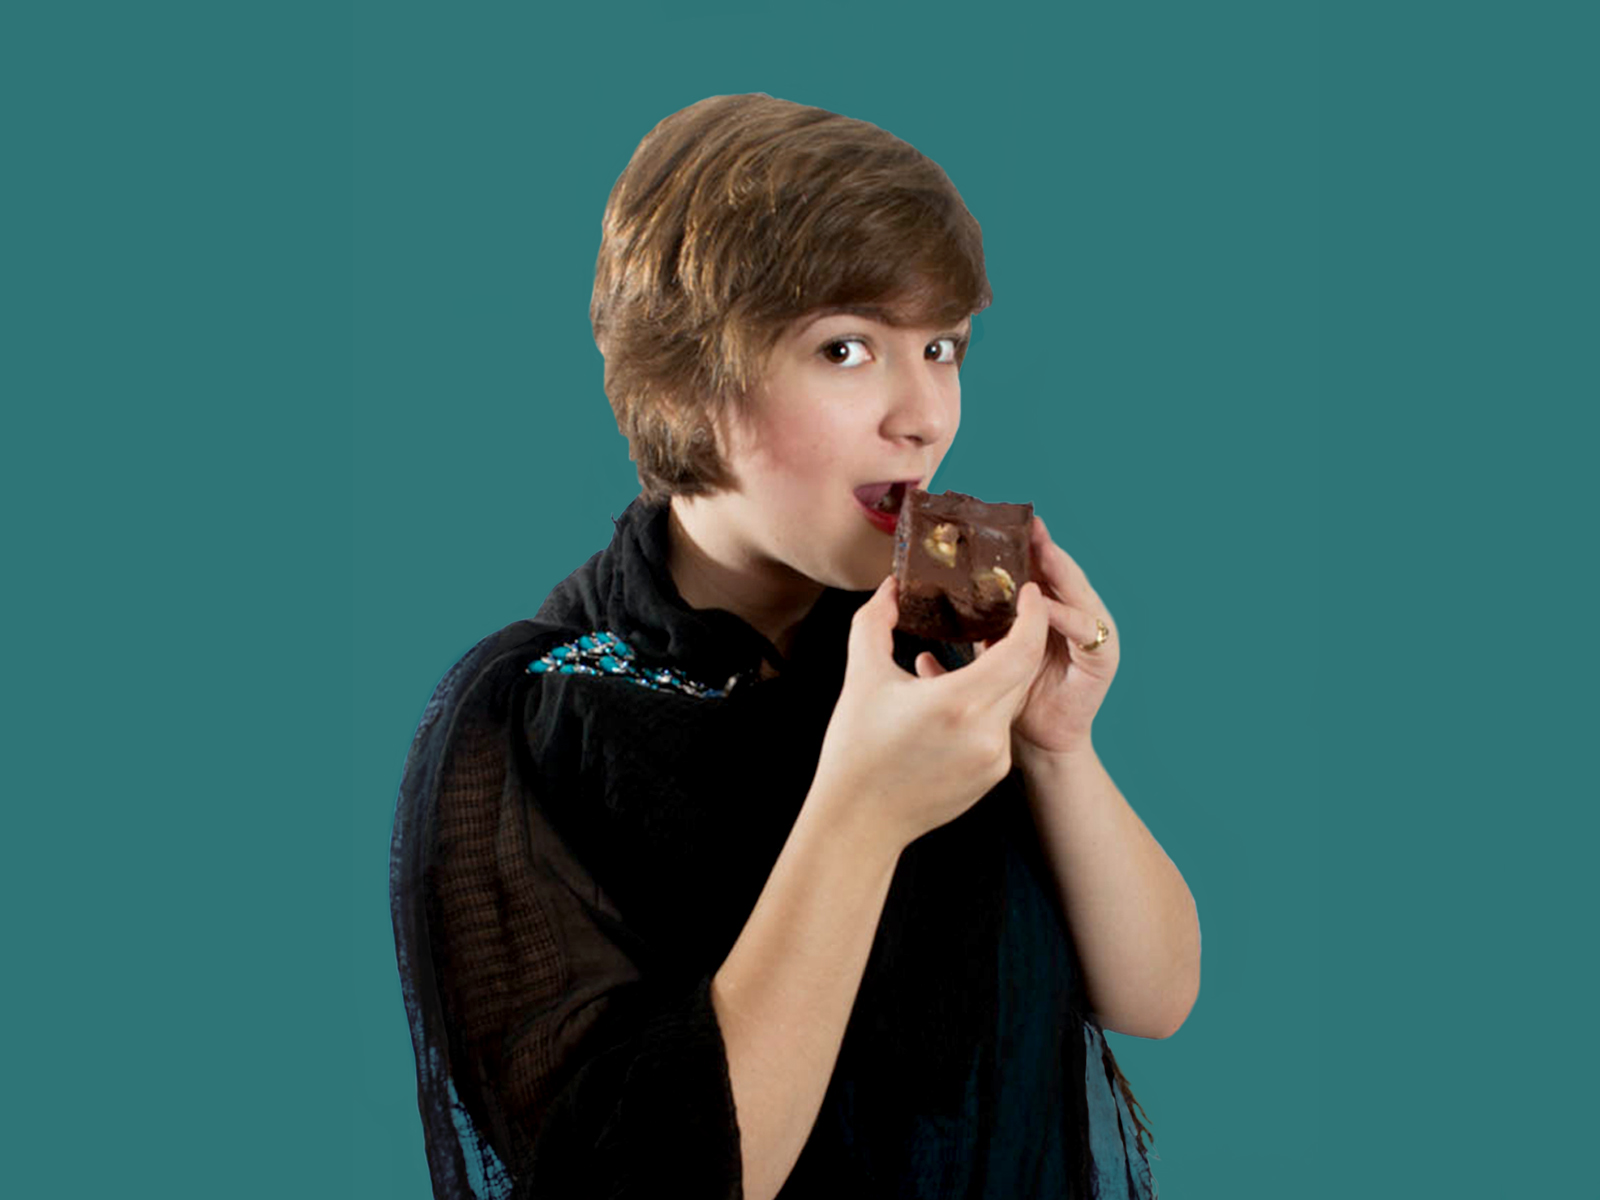
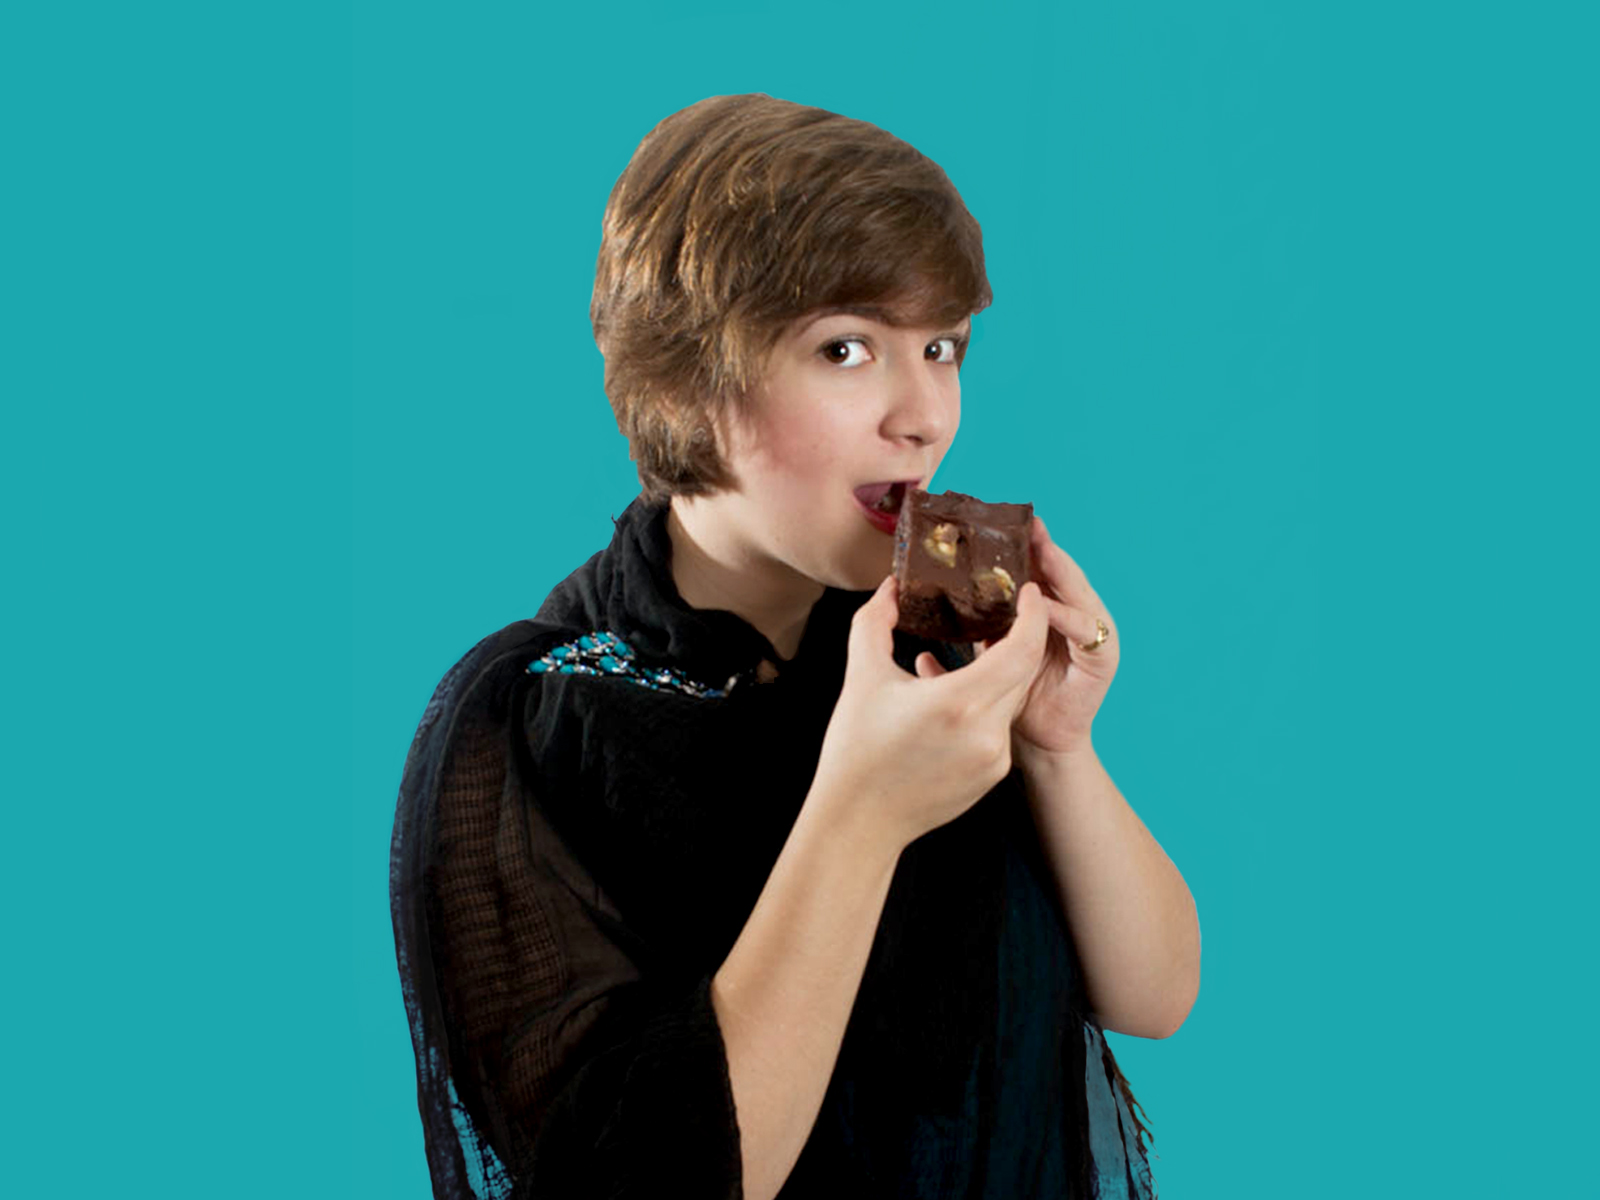
billboard changed
larger billboard changed

diff --git a/_site/css/portfolio.css b/_site/css/portfolio.css
@@ -1677,7 +1677,7 @@ a {
         } 
     
     .billboard {
-        background-image:url(../images/dia2.svg), url(../images/me.jpg) ;
+        background-image:url(../images/dia2.svg), url(../images/me-2.jpg) ;
         width: 100%;
         height:95vh;
         background-position: center left, center;

diff --git a/_includes/css/main.css b/_includes/css/main.css
@@ -169,7 +169,7 @@ a {
         } 
     
     .billboard {
-        background-image:url(../images/dia2.svg), url(../images/me.jpg) ;
+        background-image:url(../images/dia2.svg), url(../images/me-2.jpg) ;
         width: 100%;
         height:95vh;
         background-position: center left, center;
